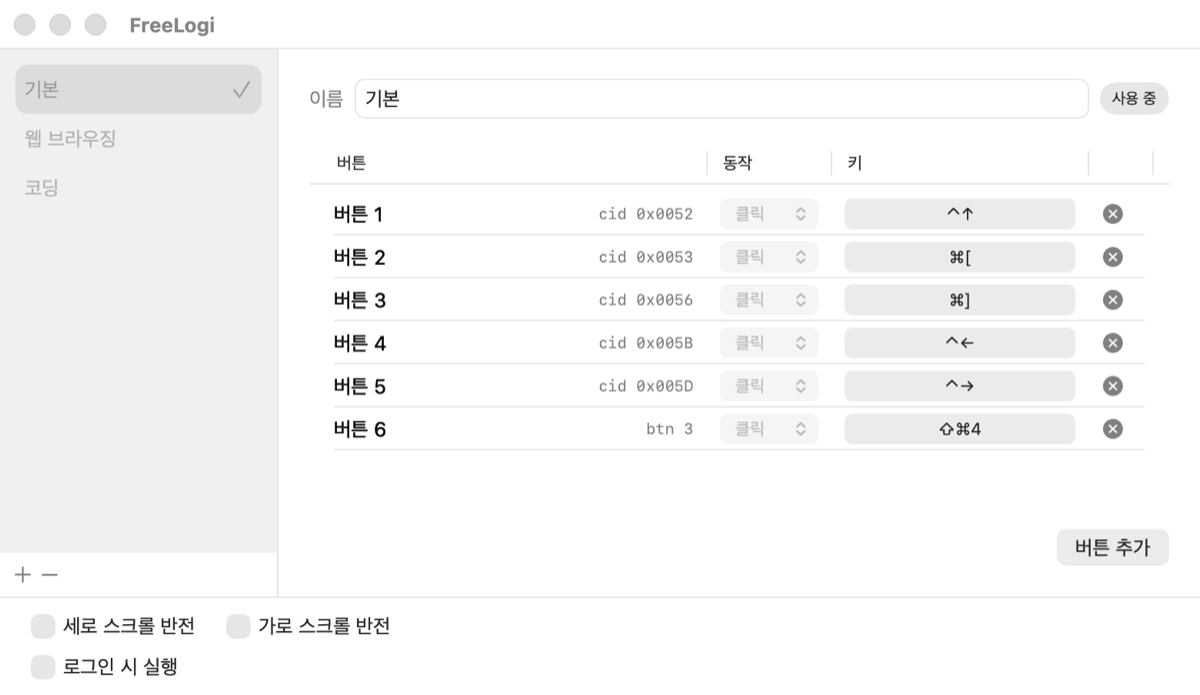
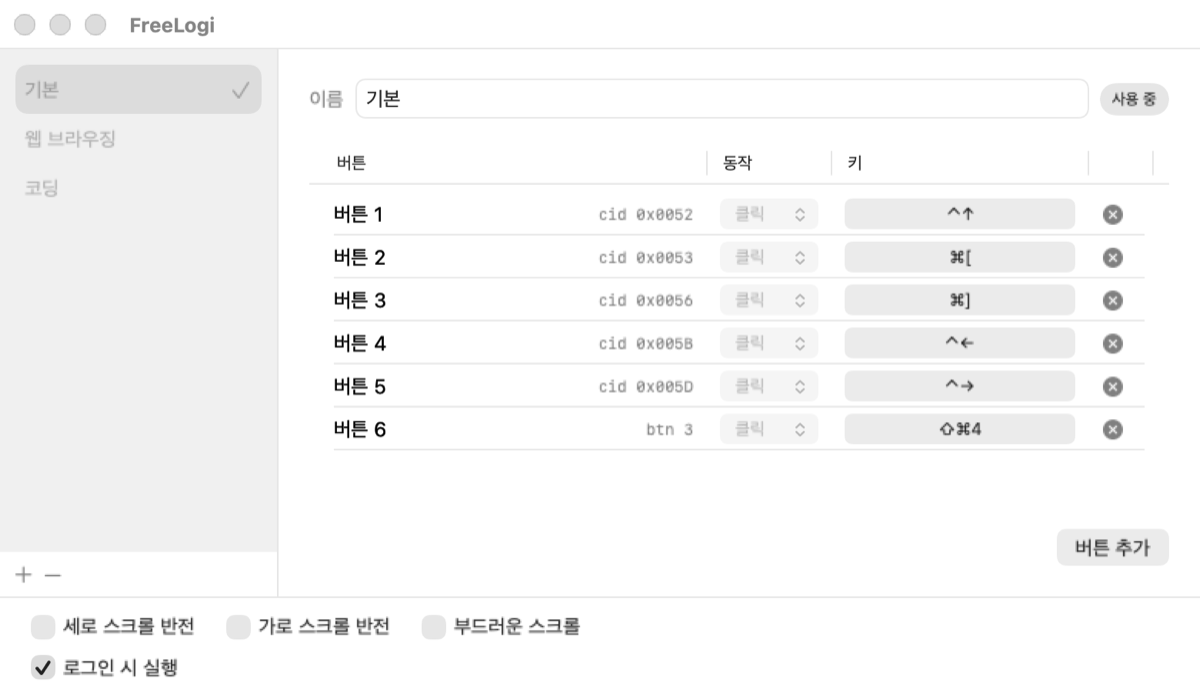
docs(56): README 부드러운 스크롤

diff --git a/README.md b/README.md
@@ -76,6 +76,10 @@ To map another direction, add the same button again and choose an unused directi
 
 Enable `Reverse vertical scrolling` or `Reverse horizontal scrolling` at the bottom of the settings window. Only mouse wheel scrolling is reversed; trackpad scrolling stays as macOS sets it. The setting applies to every profile.
 
+### Smooth scrolling
+
+Enable `Smooth scrolling` at the bottom of the settings window. Each mouse wheel notch is spread over a short animation instead of jumping, like trackpad scrolling. Trackpad scrolling is not changed. It works together with scroll reversal and applies to every profile.
+
 ### Launch at login
 
 Enable `Launch at Login` at the bottom of the settings window.
